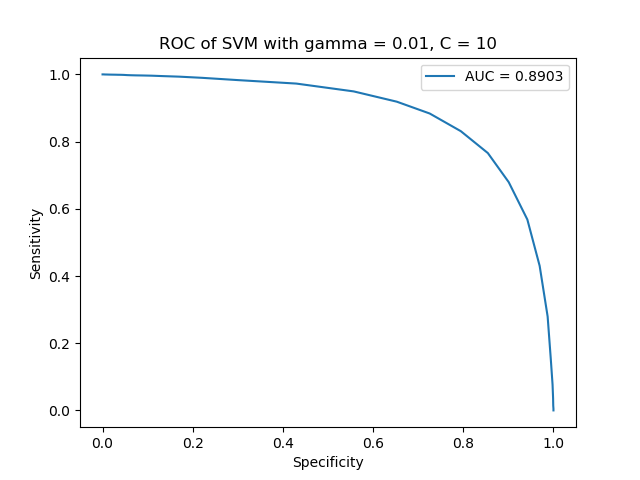
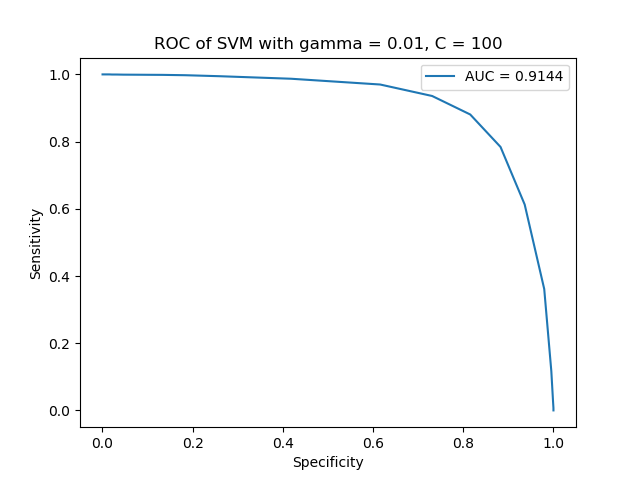
First draft of SVM

diff --git a/svm.py b/svm.py
@@ -3,6 +3,7 @@ import matplotlib.pyplot as plt
 import pandas as pd
 import math
 from sklearn.svm import SVC
+import sys
 
 class SVM():
     def __init__(self):
@@ -11,12 +12,12 @@ class SVM():
         train_data = train_data.sample(frac=1)  # randomly shuffle the train_data
 
         self.X_train = train_data.drop(['EventId', 'Weight', 'Label'], axis=1)      # train data with col of features
-        self.X_train_weight = train_data['Weight']
         self.y_train = train_data['Label']                                          # train data with col of label
+        self.w_train = train_data['Weight']
 
         self.X_test = test_data.drop(['EventId', 'Weight', 'Label'], axis=1)        # test data with col of features
-        self.X_test_weight = test_data['Weight']
         self.y_test = test_data['Label']                                            # test data with col of features
+        self.w_test = test_data['Weight']
 
         self.model = None
 
@@ -24,15 +25,24 @@ class SVM():
         max_auc_mean = 0
         best_gamma = None
         best_C = None
-        
+
         n = 5
+        arr = []
         for gamma in np.logspace(-2, 2, num=n):
+            a = []
             for C in np.logspace(-2, 2, num=n):
                 AUC_mean, AUC_var = self.kfoldcv(gamma, C, False)
-                if (AUC_mean > max_auc_mean and AUC_var < 3):
+                if (AUC_mean > max_auc_mean and AUC_var < 1):
                     max_auc_mean = AUC_mean
                     best_gamma = gamma
                     best_C = C
+                a.append('(' + str(gamma) + ', ' + str(C) + ')' + str(round(AUC_mean, 4)) + ' ' + str(round(AUC_var, 4)) + ' ')
+            arr.append(a)
+        
+        print()
+        print("Mean and var of AUCs in hyperparam tuning")
+        print(arr)
+        print()
         
         return best_gamma, best_C
 
@@ -46,16 +56,17 @@ class SVM():
             test_fold_indices = range(i*d,(i+1)*d)
             train_fold_indices = np.setdiff1d(range(0,n), test_fold_indices)
 
-            X_train_fold = self.X_train.iloc[train_fold_indices]
-            X_weight_fold = self.X_train_weight.iloc[train_fold_indices]
-            y_train_fold = self.y_train.iloc[train_fold_indices]
-            X_test_fold = self.X_train.iloc[test_fold_indices]
-            y_test_fold = self.y_train.iloc[test_fold_indices]
+            X_train_fold    = self.X_train.iloc[train_fold_indices]
+            y_train_fold    = self.y_train.iloc[train_fold_indices]
+            w_train_fold    = self.w_train.iloc[train_fold_indices]
+            X_test_fold     = self.X_train.iloc[test_fold_indices]
+            y_test_fold     = self.y_train.iloc[test_fold_indices]
+            w_test_fold     = self.w_train.iloc[test_fold_indices]
             
-            self.train(X_train_fold, y_train_fold, X_weight_fold, gamma, C)
+            self.train(X_train_fold, y_train_fold, w_train_fold, gamma, C)
 
             decision_func_vals = self.model.decision_function(X_test_fold)
-            x_axis, y_axis = self.get_ROC_curve(decision_func_vals, y_test_fold)
+            x_axis, y_axis = self.get_ROC_curve(decision_func_vals, y_test_fold, w_train_fold)
             AUC = np.trapz(y_axis, x=x_axis)
             AUCs[i] = AUC
         
@@ -65,12 +76,11 @@ class SVM():
         print("start train")
 
         self.model = SVC(C = C, kernel='rbf', gamma = gamma)
-        #self.model.fit(X, y, sample_weight = weight)
-        self.model.fit(X, y)
+        self.model.fit(X, y, sample_weight = weight)
 
         print("finish train")
 
-    def get_ROC_curve(self, decision_func_vals, y):
+    def get_ROC_curve(self, decision_func_vals, y, w):
         print("start get_ROC_curve")
 
         num = 50
@@ -79,7 +89,7 @@ class SVM():
 
         i = 0        
         for threshold in np.linspace( min(decision_func_vals), max(decision_func_vals), num=num ):                
-            TP, TN, FP, FN = self.compute_TP_TN_FP_FN(y, decision_func_vals, threshold)
+            TP, TN, FP, FN = self.compute_TP_TN_FP_FN(y, w, decision_func_vals, threshold)
             specificity, sensitivity = self.compute_spec_sens(TP, TN, FP, FN)
 
             x_ROC[i] = specificity
@@ -90,10 +100,10 @@ class SVM():
 
         return x_ROC, y_ROC
 
-    def compute_TP_TN_FP_FN(self, y_test_fold, decision_func_vals, threshold):
+    def compute_TP_TN_FP_FN(self, y, w, decision_func_vals, threshold):
         TP = FP = TN = FN = 0
-        for i in range(len(y_test_fold)):
-            y_actual = y_test_fold.iloc[i]
+        for i in range(len(y)):
+            y_actual = y.iloc[i]
             y_hat = None
             if decision_func_vals[i] > threshold:
                 y_hat = 's'
@@ -101,13 +111,13 @@ class SVM():
                 y_hat = 'b'
             
             if y_actual == y_hat == 's':
-                TP += 1
+                TP += w.iloc[i]
             if y_hat == 's' and y_actual != y_hat:
-                FP += 1
+                FP += w.iloc[i]
             if y_actual == y_hat == 'b':
-                TN += 1
+                TN += w.iloc[i]
             if y_hat == 'b' and y_actual != y_hat:
-                FN += 1
+                FN += w.iloc[i]
         
         return TP, TN, FP, FN
     
@@ -118,14 +128,14 @@ class SVM():
         return specificity, sensitivity
 
     def test(self, gamma, C):
-        self.train(self.X_train, self.y_train, self.X_train_weight, gamma, C)
+        self.train(self.X_train, self.y_train, self.w_train, gamma, C)
         scores_on_test = self.model.decision_function(self.X_test)
         scores_on_train = self.model.decision_function(self.X_train)
 
-        x_ROC, y_ROC        = self.get_ROC_curve(scores_on_test, self.y_test)
+        x_ROC, y_ROC        = self.get_ROC_curve(scores_on_test, self.y_test, self.w_test)
         AUC                 = np.trapz(y_ROC, x=x_ROC)
-        best_thres          = self.get_best_AMS_thres(scores_on_train, self.y_train)
-        TP, TN, FP, FN      = self.compute_TP_TN_FP_FN(self.y_test, scores_on_test, best_thres)
+        best_thres          = self.get_best_AMS_thres(scores_on_train, self.y_train, self.w_train)
+        TP, TN, FP, FN      = self.compute_TP_TN_FP_FN(self.y_test, self.w_test, scores_on_test, best_thres)
         max_ams             = self.AMS(TP, FP)
 
         self.plot_curve(x_ROC, y_ROC, 'Specificity', 'Sensitivity', 'ROC', 'SVM_ROC.png', gamma, C, AUC)
@@ -150,16 +160,16 @@ class SVM():
             train_fold_indices = range(i*d,(i+1)*d)
 
             X_train_fold    = self.X_train.iloc[train_fold_indices]
-            X_weight_fold   = self.X_train_weight.iloc[train_fold_indices]
             y_train_fold    = self.y_train.iloc[train_fold_indices]
+            w_train_fold    = self.w_train.iloc[train_fold_indices]
             
-            self.train(X_train_fold, y_train_fold, X_weight_fold, gamma, C)
+            self.train(X_train_fold, y_train_fold, w_train_fold, gamma, C)
 
             scores_on_train = self.model.decision_function(X_train_fold)
             scores_on_test  = self.model.decision_function(self.X_test)
 
-            best_thres      = self.get_best_AMS_thres(scores_on_train, y_train_fold)
-            TP, TN, FP, FN  = self.compute_TP_TN_FP_FN(self.y_test, scores_on_test, best_thres)
+            best_thres      = self.get_best_AMS_thres(scores_on_train, y_train_fold, w_train_fold)
+            TP, TN, FP, FN  = self.compute_TP_TN_FP_FN(self.y_test, self.w_test, scores_on_test, best_thres)
             accuracy        = (TP + TN) / (TP + FP + FN + TN)
 
             x_axis[i]       = (i+1)*1000
@@ -172,13 +182,13 @@ class SVM():
 
         self.plot_curve(x_axis, y_axis, x_label, y_label, title, filename, gamma, C, -1)
 
-    def get_best_AMS_thres(self, decision_func_vals, y):
+    def get_best_AMS_thres(self, decision_func_vals, y, w):
         max_ams = 0
         best_thres = 0
 
         num = 50
         for threshold in np.linspace( min(decision_func_vals), max(decision_func_vals), num=num ):                
-            TP, TN, FP, FN = self.compute_TP_TN_FP_FN(y, decision_func_vals, threshold)
+            TP, TN, FP, FN = self.compute_TP_TN_FP_FN(y, w, decision_func_vals, threshold)
             ams = self.AMS(TP, FP)
 
             if (ams > max_ams):
@@ -206,8 +216,10 @@ class SVM():
 
 if __name__ == "__main__":
     svm = SVM()
-    #gamma, C = svm.hyperparameter_tune()
-    gamma, C = 0.01, 10
+    if int(sys.argv[1]) == 1:
+        gamma, C = 0.01, 100
+    else:
+        gamma, C = svm.hyperparameter_tune()
     print()
     print("Best hyperparameters")
     print("Gamma = " + str(gamma) + ", C = " + str(C))
